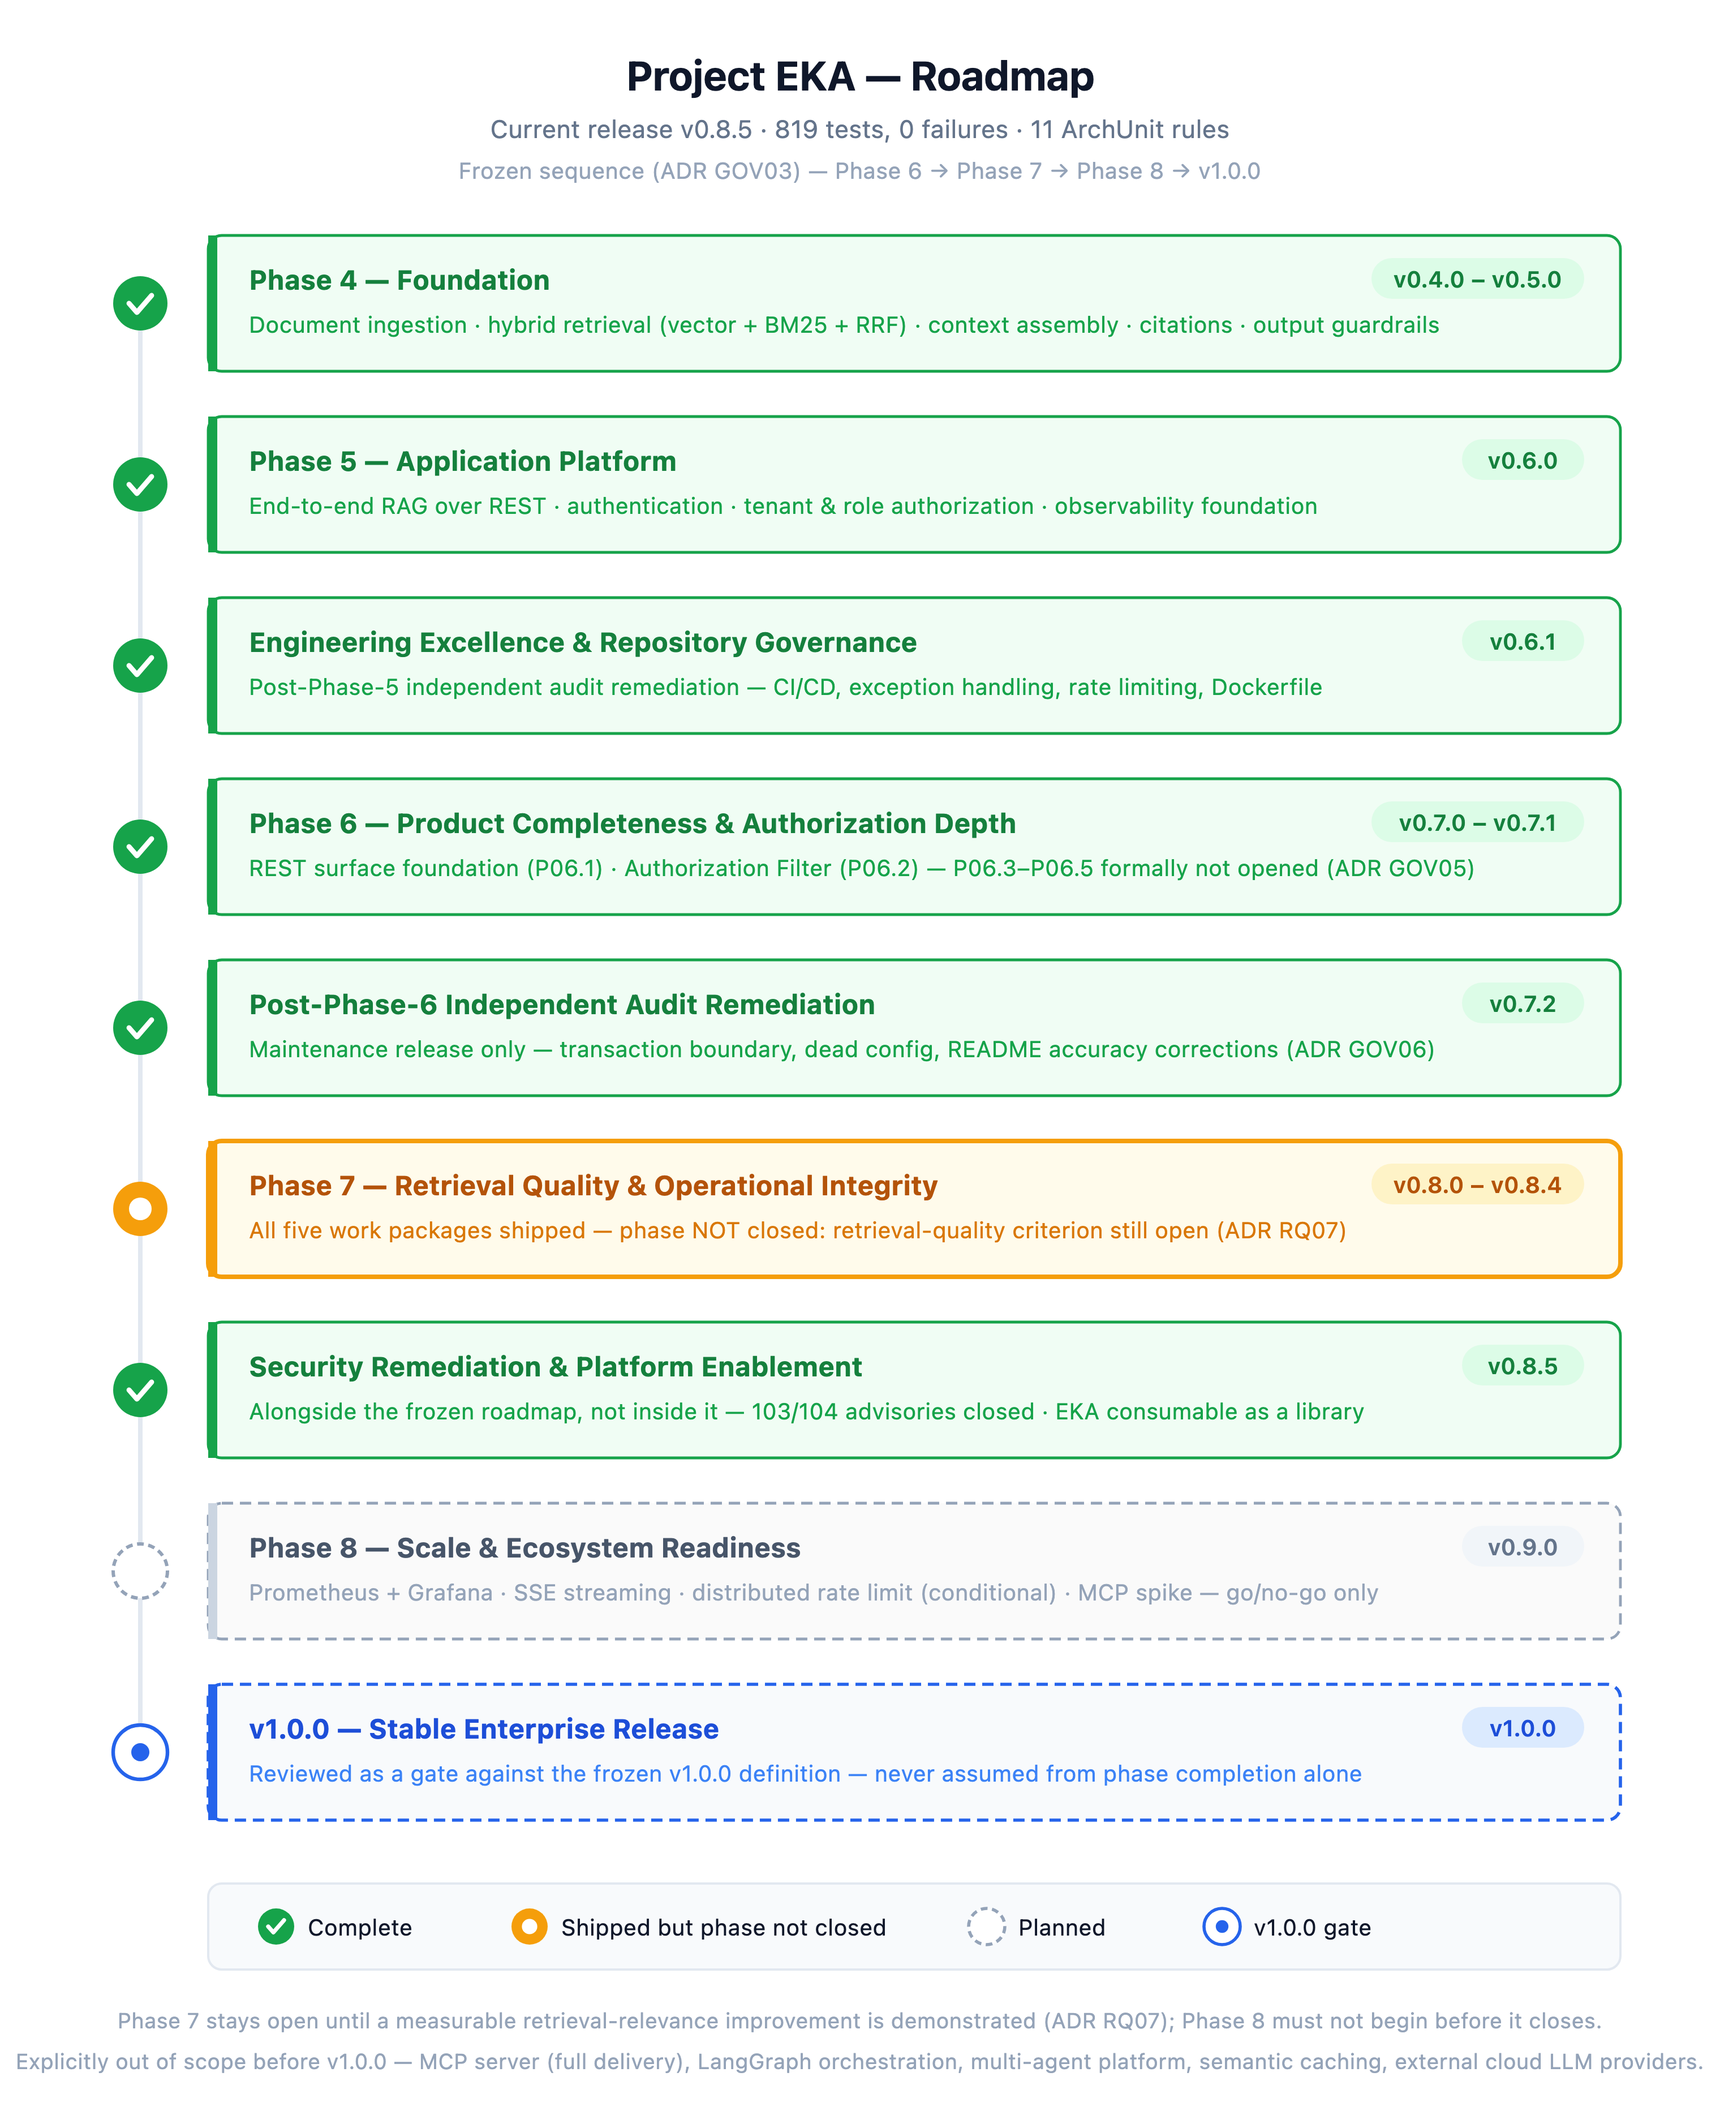
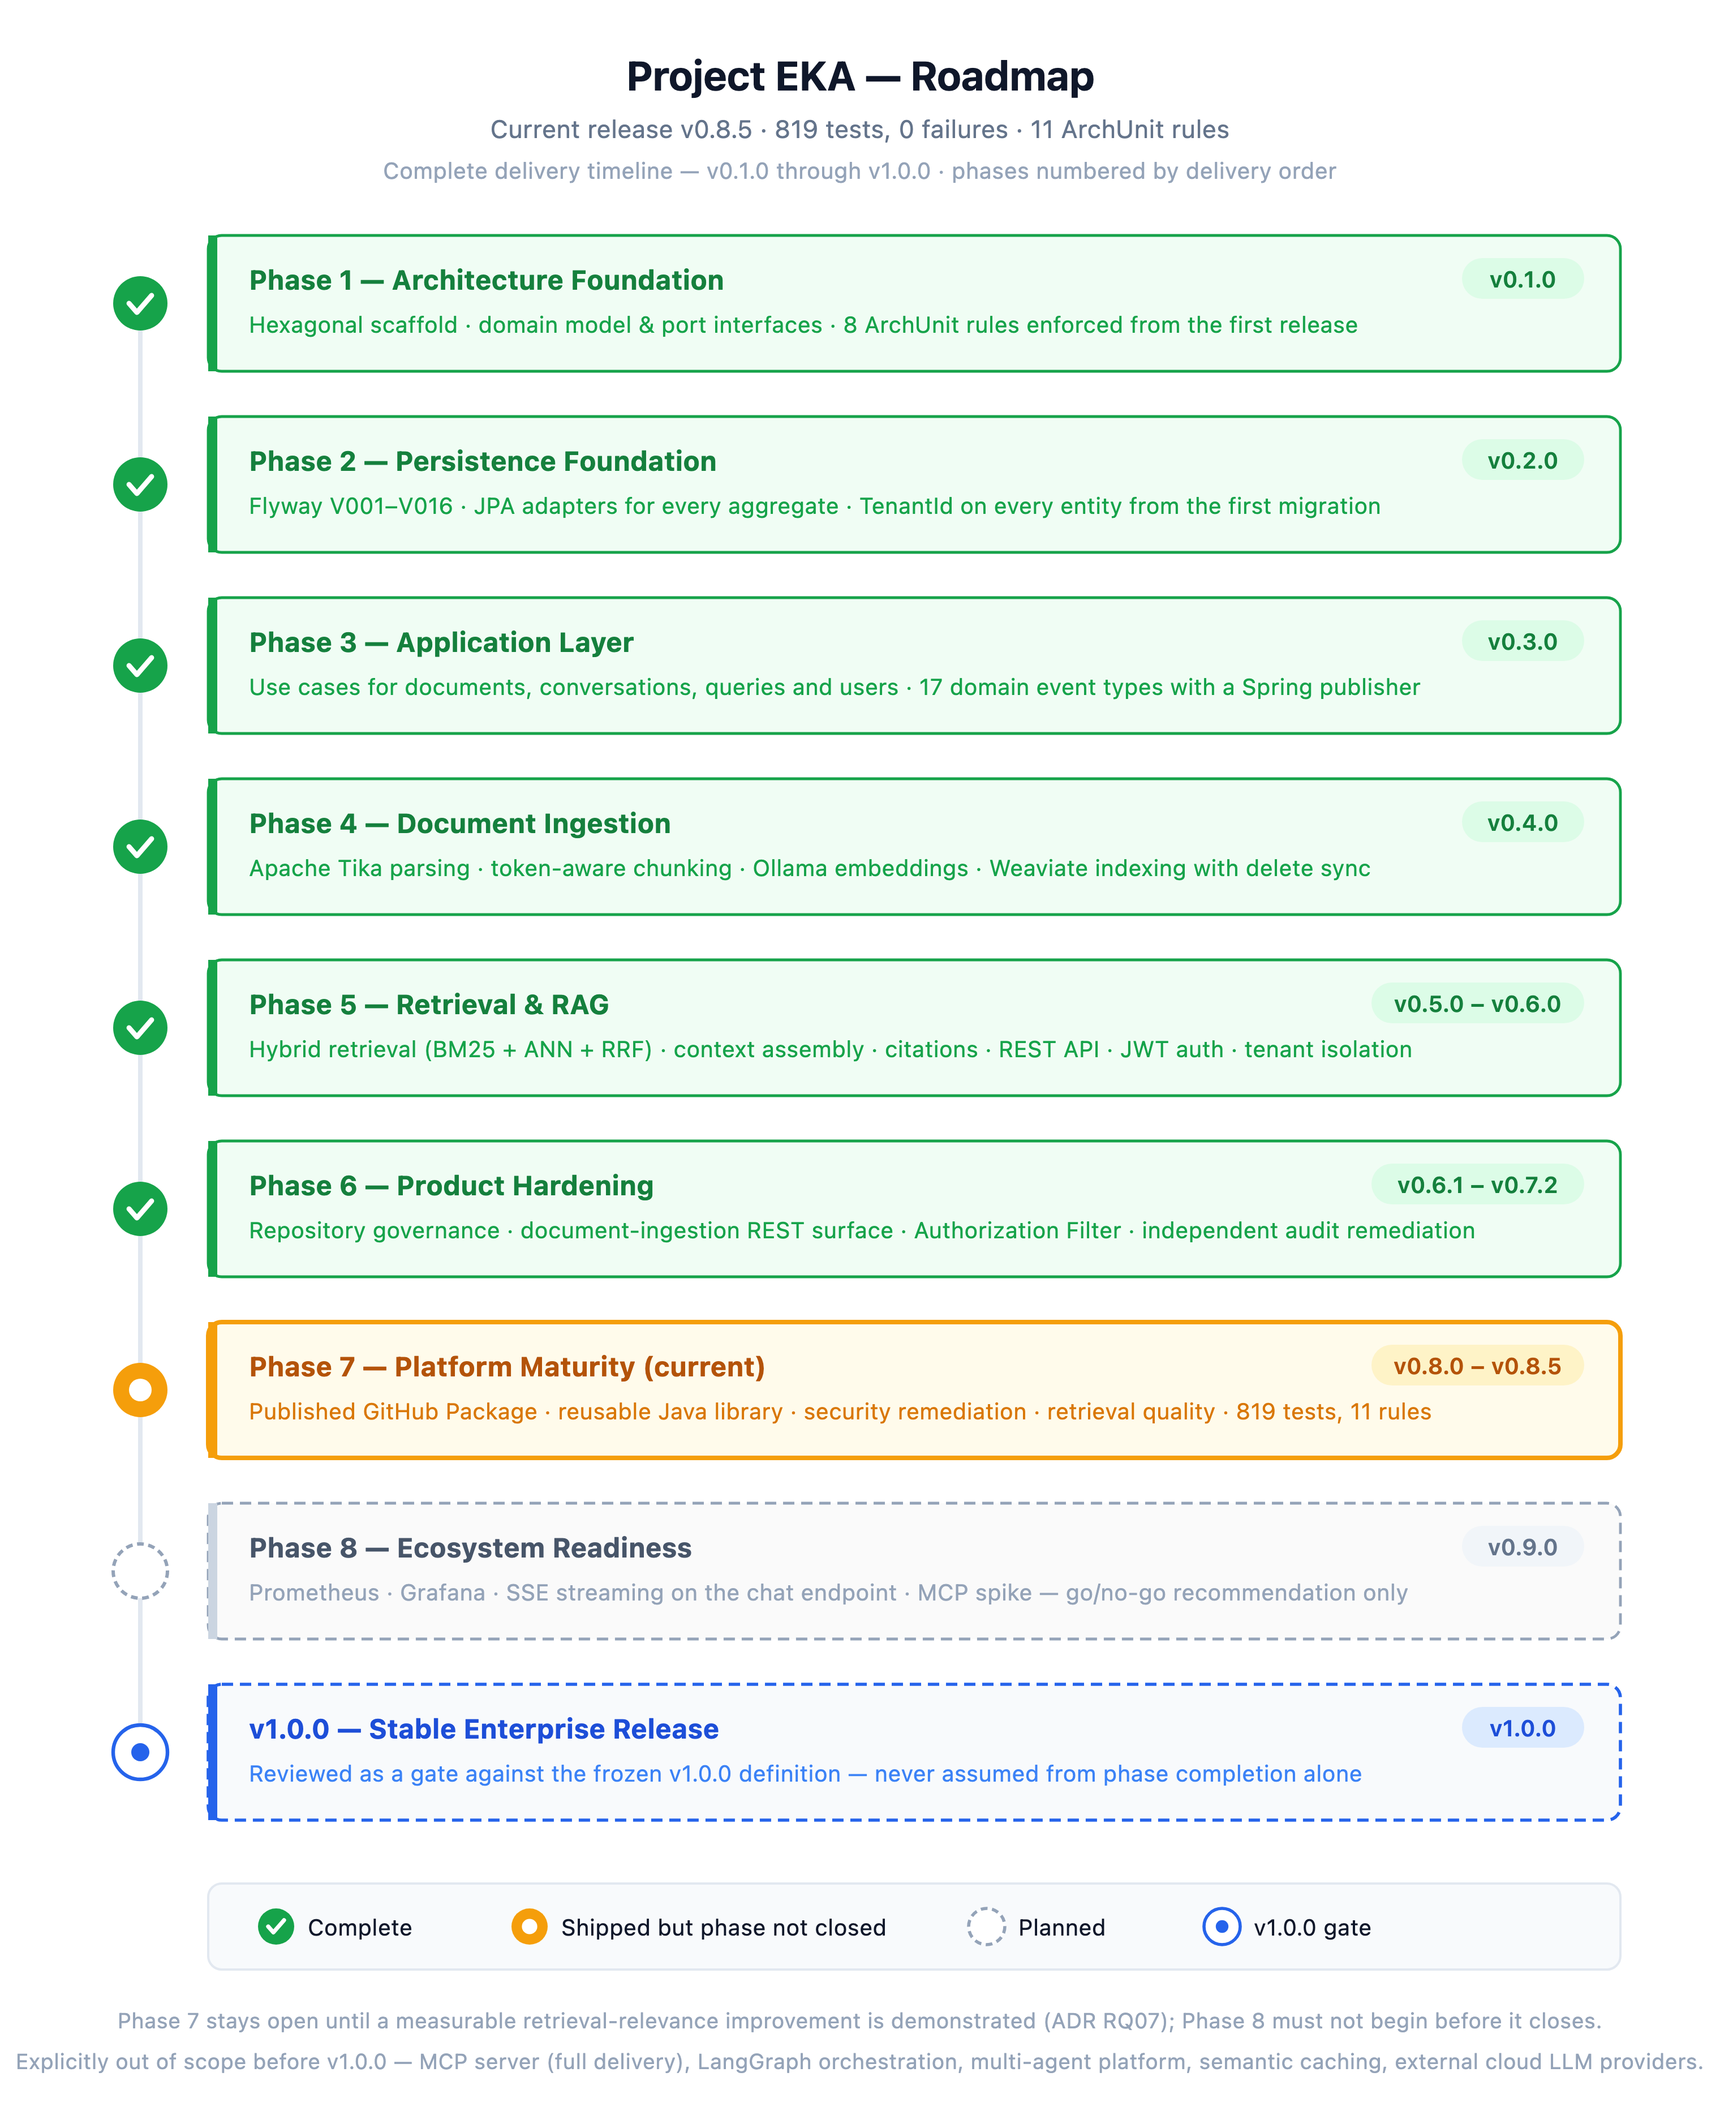
docs: show the complete project timeline from v0.1.0 (#21)
Both the roadmap diagram and the README's Current Capabilities section started at
v0.4.0, which made the project look as though it began mid-way. Neither hid the
early work deliberately — the early releases simply predate the milestone-tracking
discipline — but a first-time reader could not see the first half of the journey.

Roadmap diagram

  Regenerated to cover v0.1.0 through v1.0.0. The visual system is unchanged: the
  same nine-row geometry, box sizes, spine, pill placement, palette, typography and
  four-item legend as before, so it still reads on one screen.

  Every row was verified against git tags, CHANGELOG.md and README.md's release
  history rather than reconstructed from memory:

    Phase 1  v0.1.0          hexagonal scaffold, domain model, ports, 8 ArchUnit rules
    Phase 2  v0.2.0          Flyway V001-V016, JPA adapters, TenantId from V001
    Phase 3  v0.3.0          use case layer, 17 domain event types
    Phase 4  v0.4.0          Tika parsing, chunking, embeddings, Weaviate indexing
    Phase 5  v0.5.0-v0.6.0   hybrid retrieval, citations, REST API, JWT, tenancy
    Phase 6  v0.6.1-v0.7.2   governance, REST surface, Authorization Filter, audit
    Phase 7  v0.8.0-v0.8.5   platform maturity — amber, shipped but NOT closed
    Phase 8  v0.9.0          Prometheus, Grafana, SSE, MCP spike (planned)
    v1.0.0                   gate review against the frozen definition

  Phase 7 keeps its amber treatment and the ADR RQ07 footnote: implemented, and
[…]

diff --git a/README.md b/README.md
@@ -124,6 +124,33 @@ Most RAG implementations are demos. They work for a single user, on a single mac
 
 ## Current Capabilities
 
+Listed in the order they were delivered, so the platform's evolution is visible from the first
+release rather than starting mid-way.
+
+**Implemented — v0.1.0 (architecture foundation)**
+
+- ✅ Hexagonal Architecture (Ports & Adapters) scaffold — the layering every later release was built inside
+- ✅ ArchUnit enforcement from day one — 8 layering rules at build time (11 today)
+- ✅ Domain model — `Document`, `Chunk`, `Conversation`, `ChatSession`, `KnowledgeQuery` and `User` aggregates
+- ✅ Port interfaces defined before any adapter existed — `FileStorage`, `DocumentParser`, `VectorStore`, `EmbeddingProvider`, `DomainEventPublisher`
+- ✅ Java 21 / Spring Boot (3.5.0 at this release) / Gradle 8.12 baseline
+- ✅ Docker Compose for the full local stack — PostgreSQL 16, Weaviate 1.25, Ollama
+
+**Implemented — v0.2.0 (persistence foundation)**
+
+- ✅ 16 Flyway schema migrations (V001–V016; 19 today)
+- ✅ JPA entity hierarchy — `BaseUuidEntity` → `AuditableEntity`
+- ✅ Spring Data repository adapters for every domain aggregate
+- ✅ Multi-tenancy in the schema itself — `TenantId` on every entity from V001, not retrofitted later
+- ✅ PostgreSQL 16 with full-text search columns prepared ahead of the BM25 work in v0.5.0
+
+**Implemented — v0.3.0 (application layer)**
+
+- ✅ Full use case layer for document, conversation, query and user management
+- ✅ Domain event system — 17 event types with a Spring-backed publisher
+- ✅ `UploadDocumentUseCase` — end-to-end ingestion orchestration
+- ✅ `DeleteDocumentUseCase` — cascade removal with file-storage cleanup
+
 **Implemented — v0.4.0 (ingestion foundation)**
 
 - ✅ Multi-format document upload with format-filename consistency validation — implemented at the application layer (`UploadDocumentUseCase`) and fully tested; **REST-exposed as of P06.1** via `POST /api/v1/documents` (multipart, closes v0.6.1 ADR EX09's deferral and post-Phase-5 audit finding H2). See "Application Platform" below.
@@ -211,6 +238,17 @@ Most RAG implementations are demos. They work for a single user, on a single mac
 - ✅ Untrusted retrieved content is fenced and labelled as data in the system prompt, with the rules restated after it, and fence markers stripped from document content so a document cannot close its own fence
 - ✅ The re-ranking scoring prompt gets identical treatment — a surface WP-4 itself created, and the higher-value target of the two
 - ✅ [Full review published](docs/security/prompt-injection-review.md) with residual risk **explicitly accepted**, not implied away: the mitigations are defence in depth, and no prompt-level technique closes indirect injection
+
+**Implemented — v0.8.5 (platform enablement & security remediation)**
+
+- ✅ EKA is consumable as a library — published to GitHub Packages as `com.mudassirshahzad:project-eka:0.8.5`; the plain jar is the library, the executable application carries a `-boot` classifier
+- ✅ The library jar no longer leaks application-owned resources — `application.yml`, Flyway migrations and build-info are excluded, so a consumer's own configuration wins
+- ✅ Gradle Module Metadata suppressed — fixes consumers that previously could not resolve the artifact at all
+- ✅ `platform-smoke/` — a standalone consumer project that resolves the published artifact and runs against it in CI; it reads the version from the root build, so it cannot go stale on a bump
+- ✅ Three module-boundary ArchUnit rules added (11 enforced in total)
+- ✅ 103 of 104 dependency advisories closed — 8 of 8 critical, 40 of 40 high; Spring Boot 3.5.0 → 3.5.16, Spring AI 1.0.0 → 1.1.8, plus eight documented managed-version overrides where a Boot bump alone does not close the advisory
+- ✅ gRPC stack aligned on 1.75.0, replacing a split 1.68.2/1.70.0 stack, covered by an integration test against a real Weaviate
+- ✅ No auto-configured in-memory user — `UserDetailsServiceAutoConfiguration` excluded
 
 **Planned — beyond Phase 7** (see [Release Roadmap](#release-roadmap))
 
